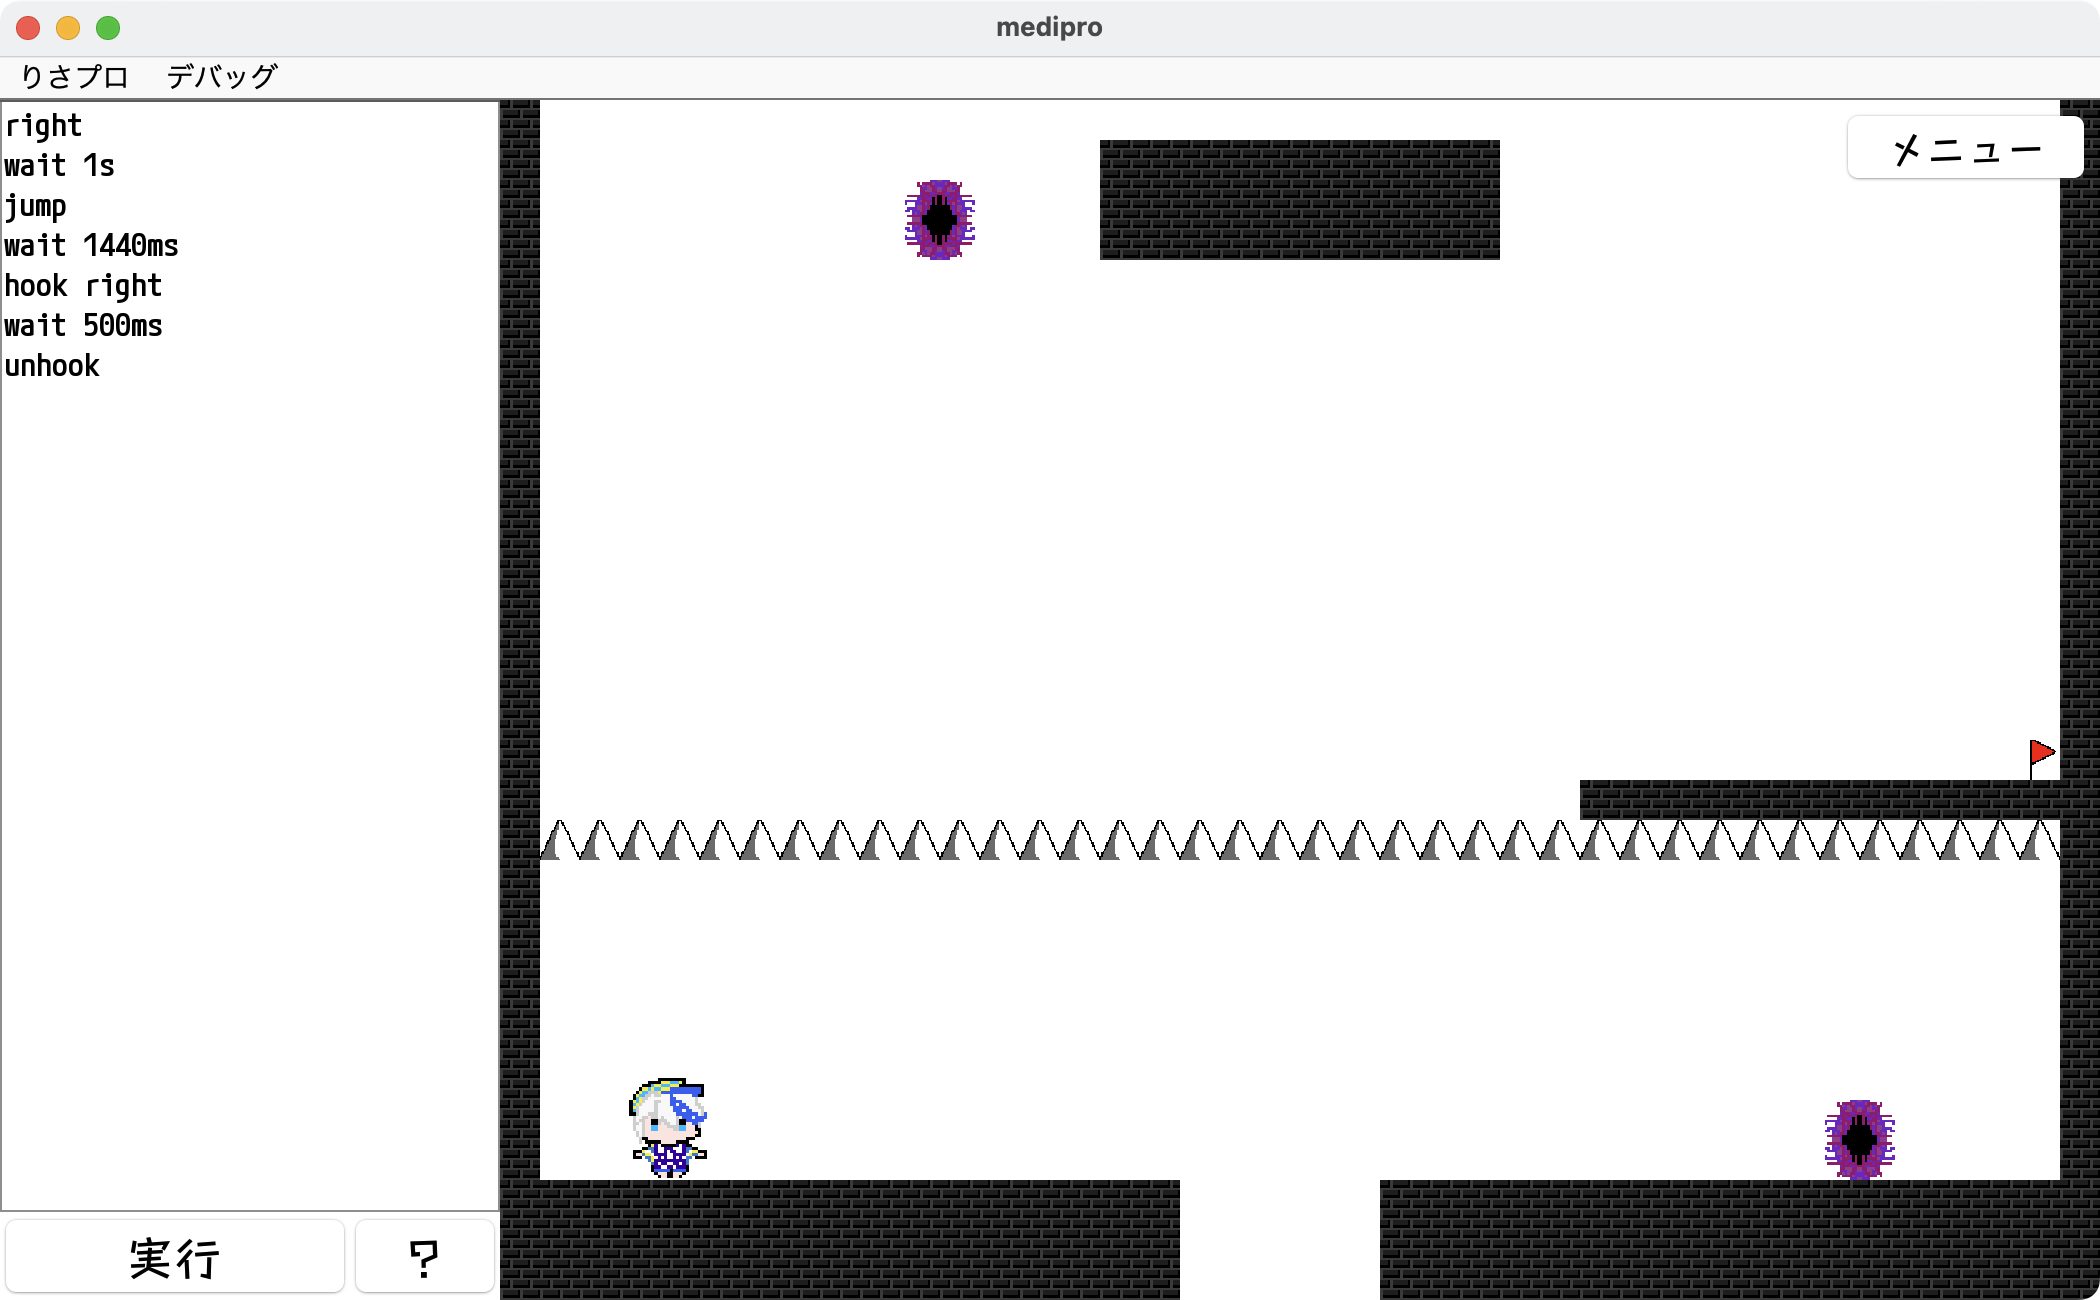
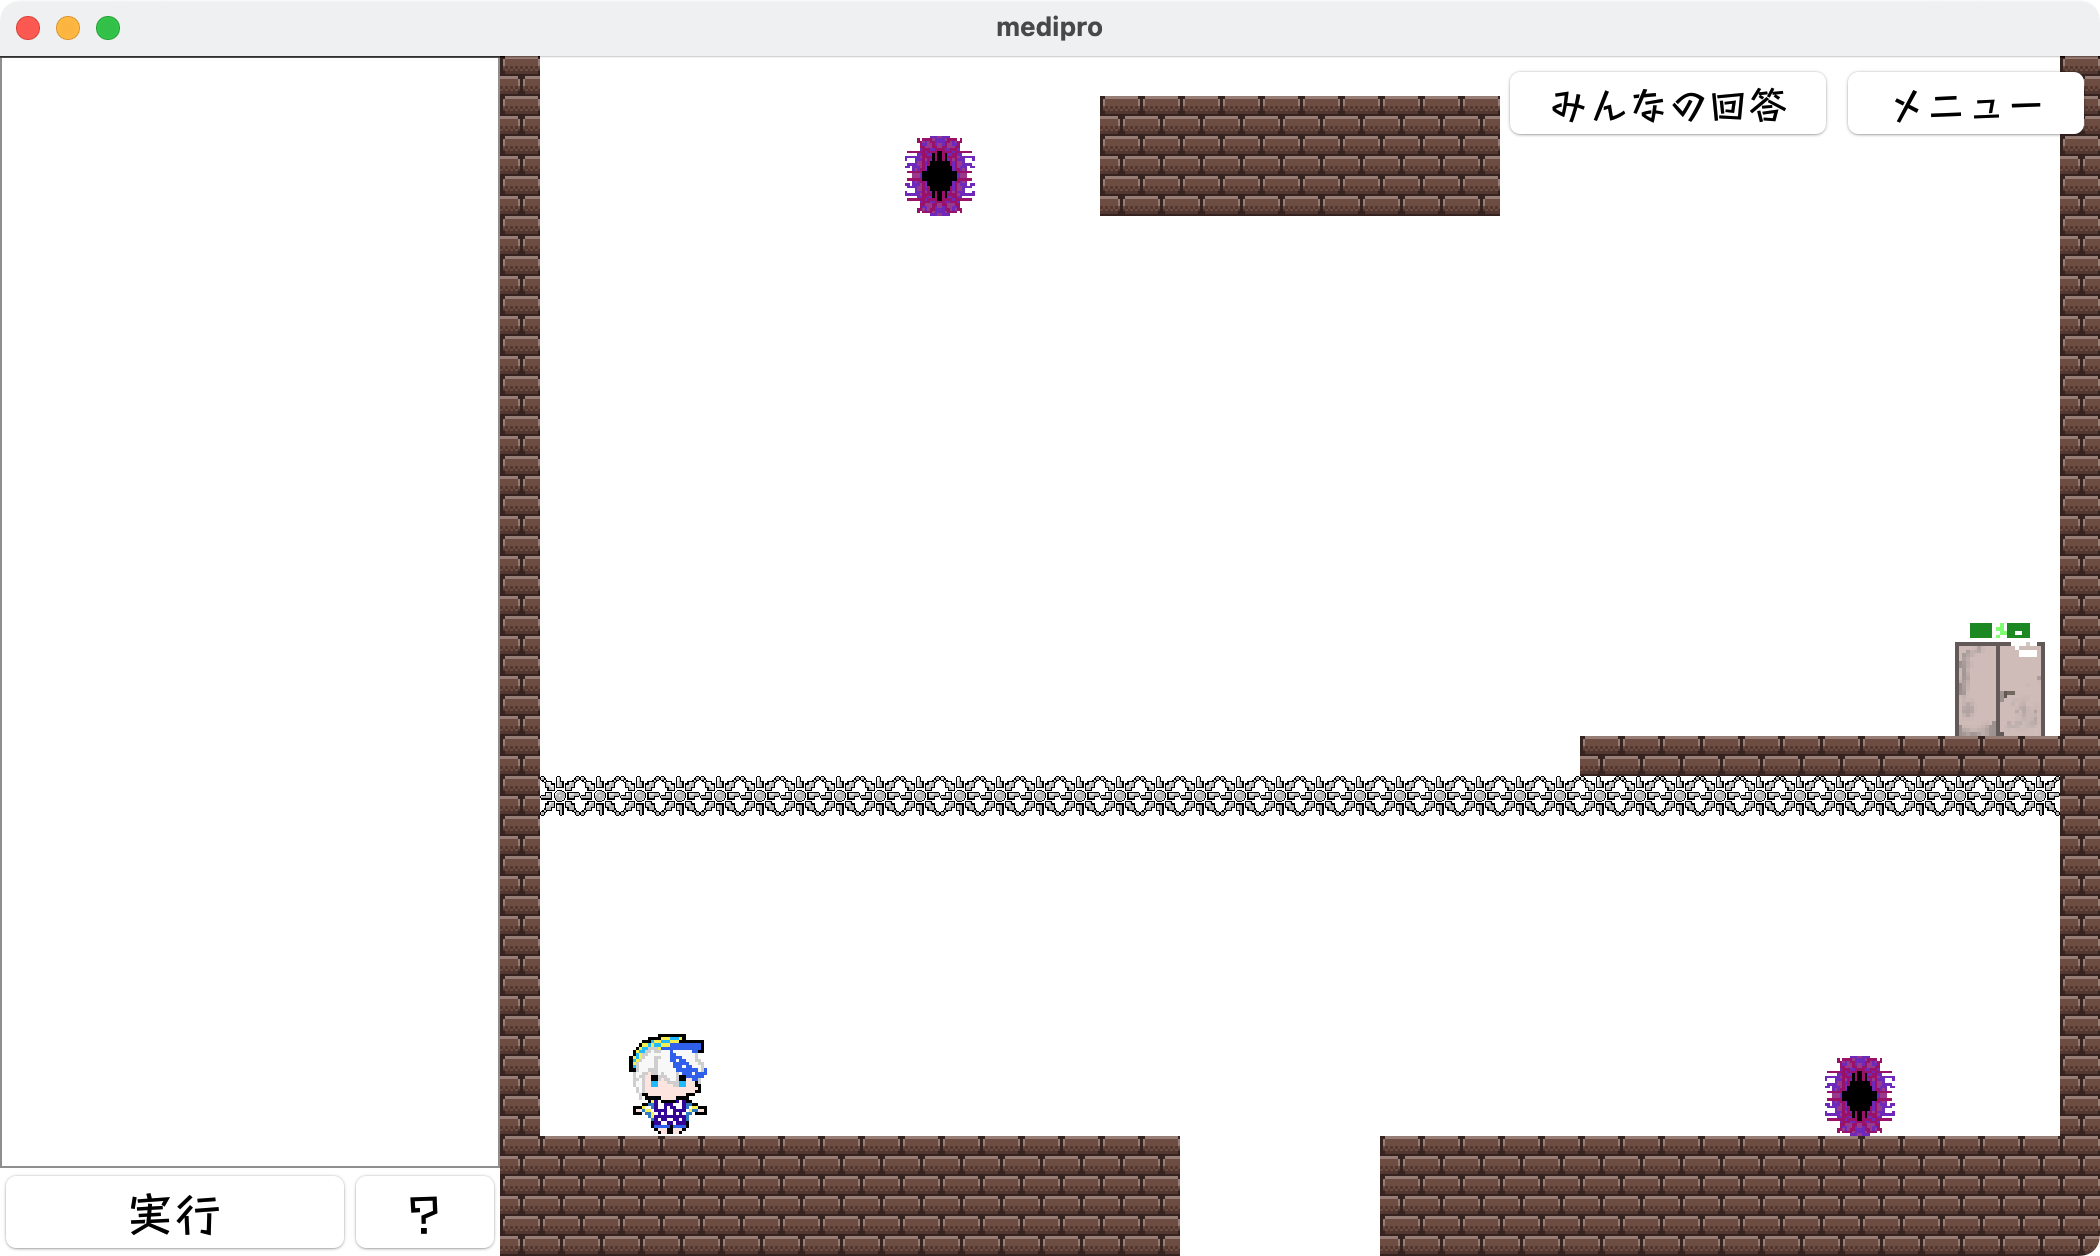
chore: ステージのメタを変更

diff --git a/src/net/keitaito/medipro/App.java b/src/net/keitaito/medipro/App.java
@@ -145,9 +145,9 @@ public class App {
         worldLevel3 = WorldLoader.loadWorld(stageModel, "3_spike");
         worldLevel4 = WorldLoader.loadWorld(stageModel, "4_hook");
         worldLevel5 = WorldLoader.loadWorld(stageModel, "5_portal");
-        worldLevel6 = WorldLoader.loadWorld(stageModel, "6_null");
-        worldLevel7 = WorldLoader.loadWorld(stageModel, "7_null");
-        worldLevel8 = WorldLoader.loadWorld(stageModel, "8_null");
+        worldLevel6 = WorldLoader.loadWorld(stageModel, "6_tower");
+        worldLevel7 = WorldLoader.loadWorld(stageModel, "7_trap");
+        worldLevel8 = WorldLoader.loadWorld(stageModel, "8_fly");
         stageModel.setWorld(voidWorld);
 
         levelModel = new LevelModel();

diff --git a/src/net/keitaito/medipro/stage/StageView.java b/src/net/keitaito/medipro/stage/StageView.java
@@ -67,7 +67,7 @@ public class StageView extends JPanel implements MouseListener {
         add(openMenuButtonPanel);
 
         setPreferredSize(new Dimension(StageView.WIDTH, StageView.HEIGHT));
-        addKeyListener(controller);
+        // addKeyListener(controller);
         setFocusable(true);
         addMouseListener(this);
 
